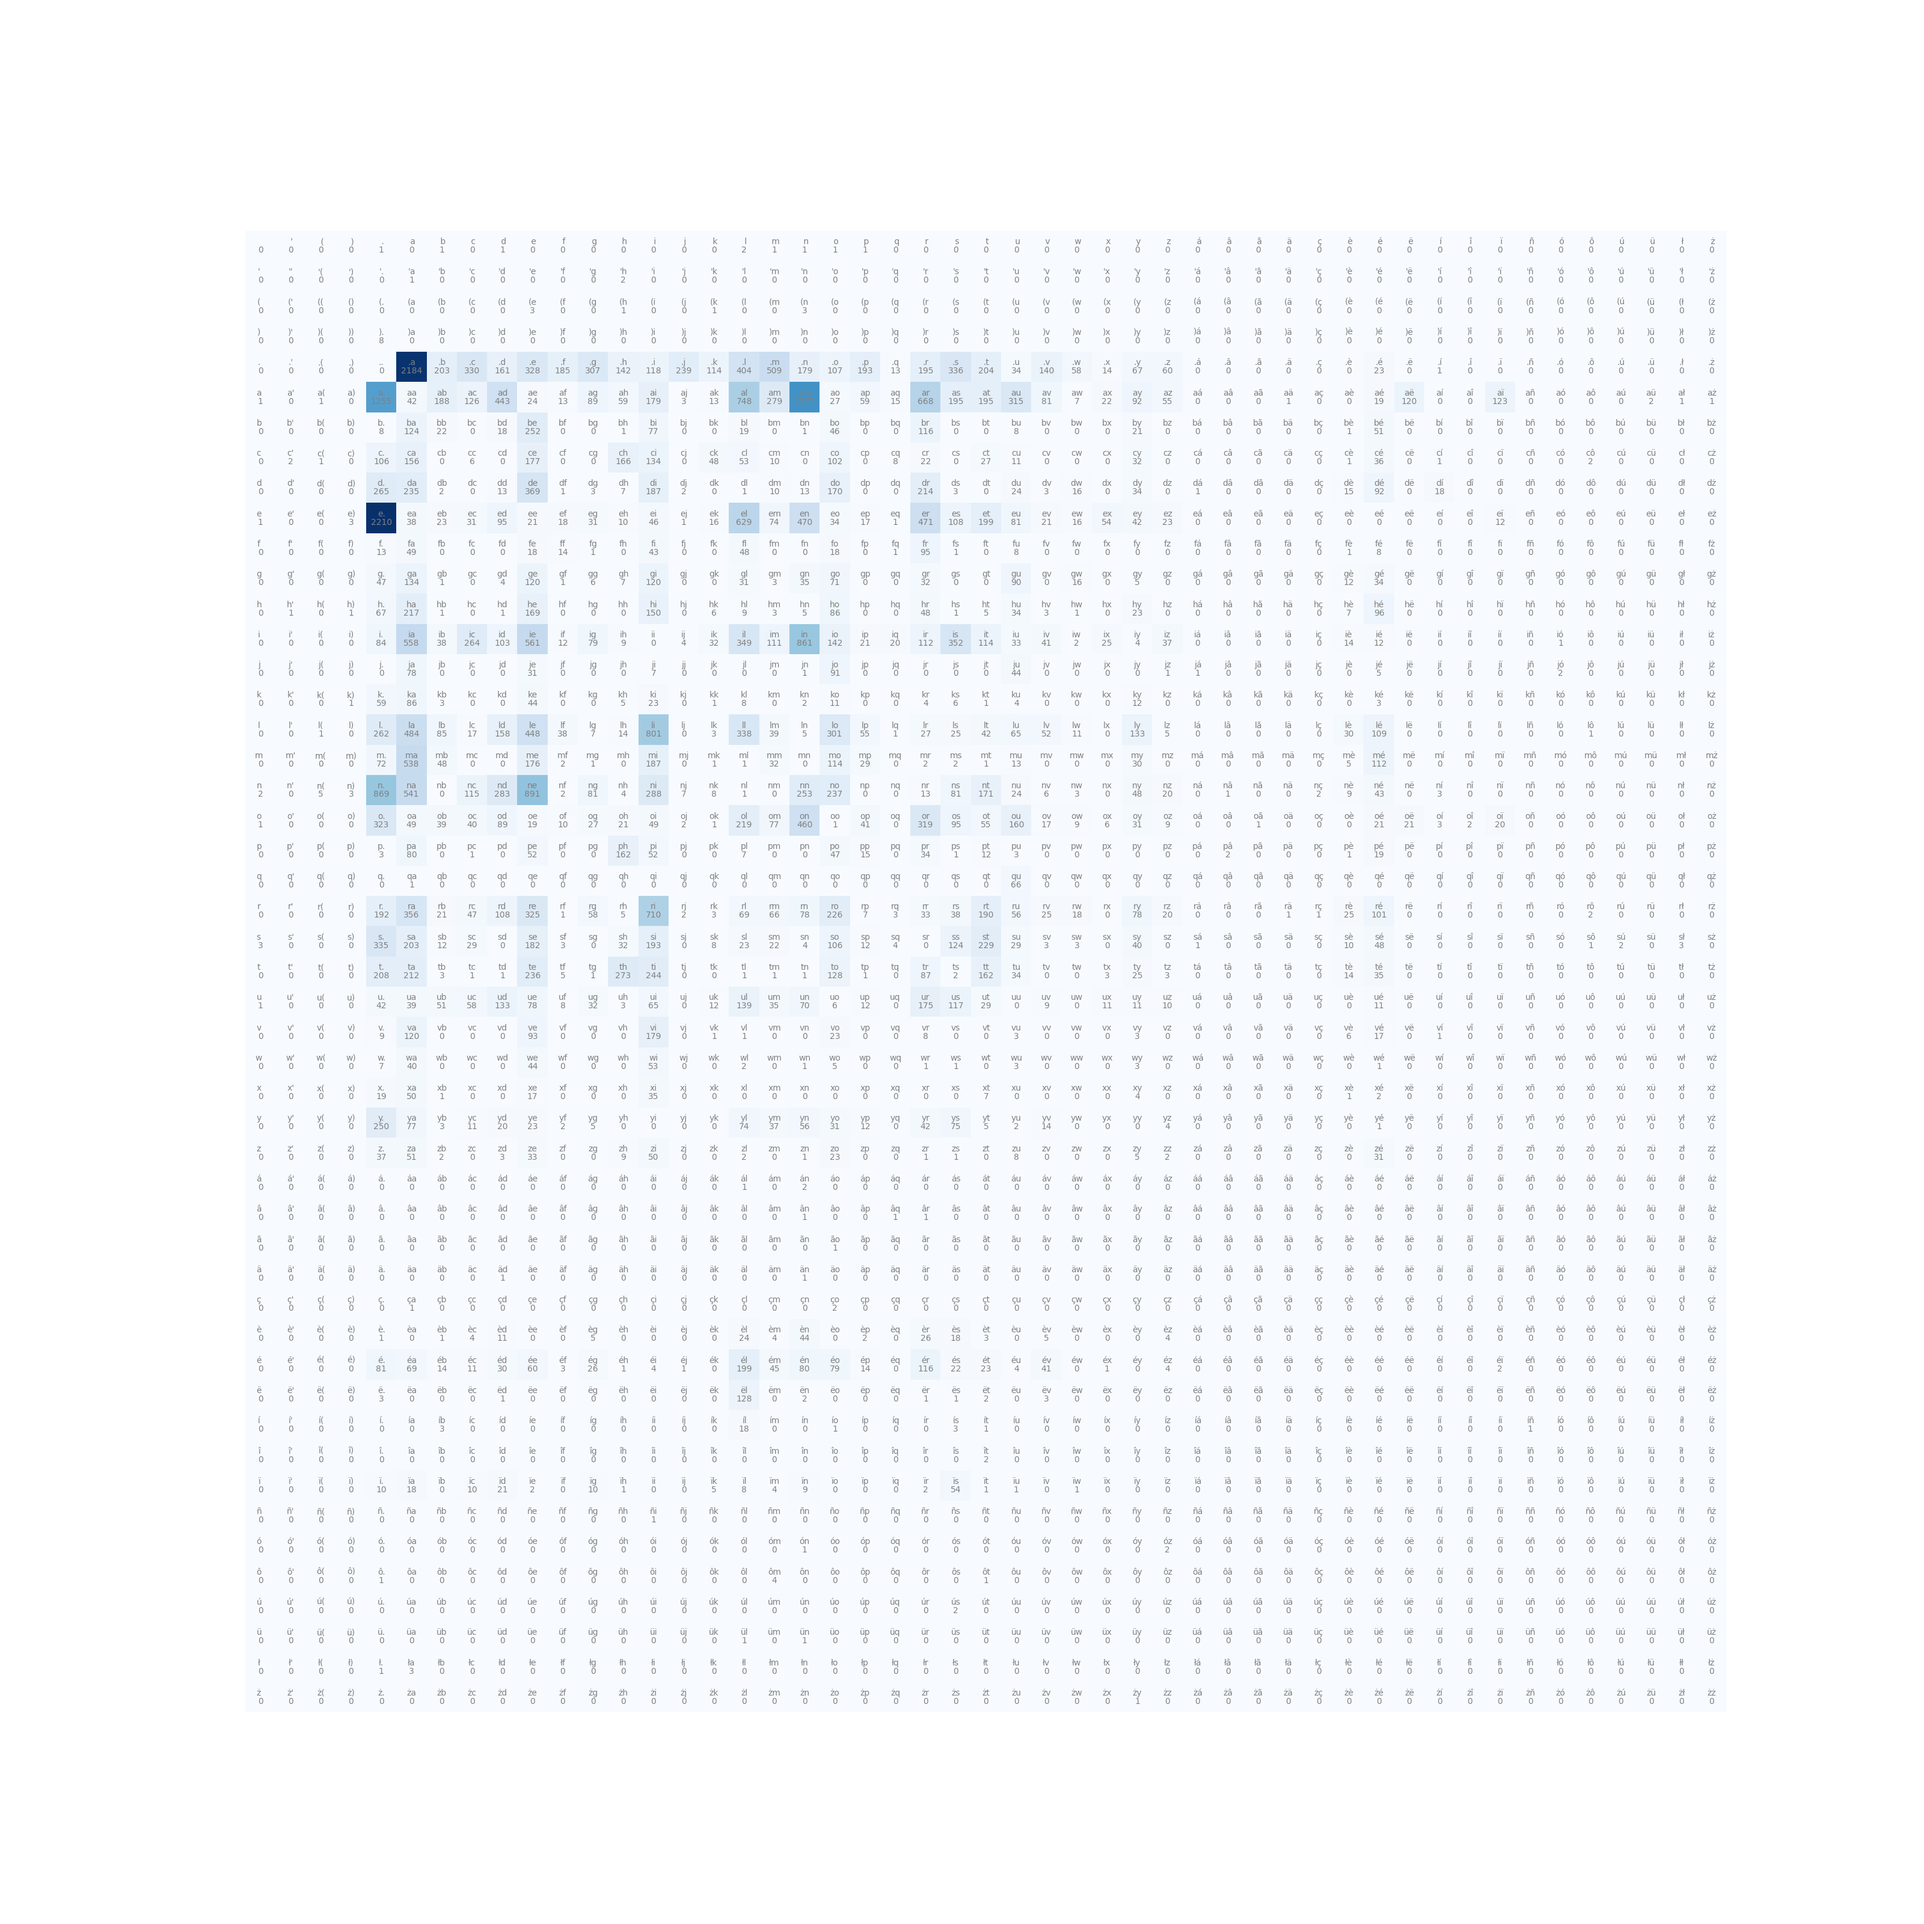
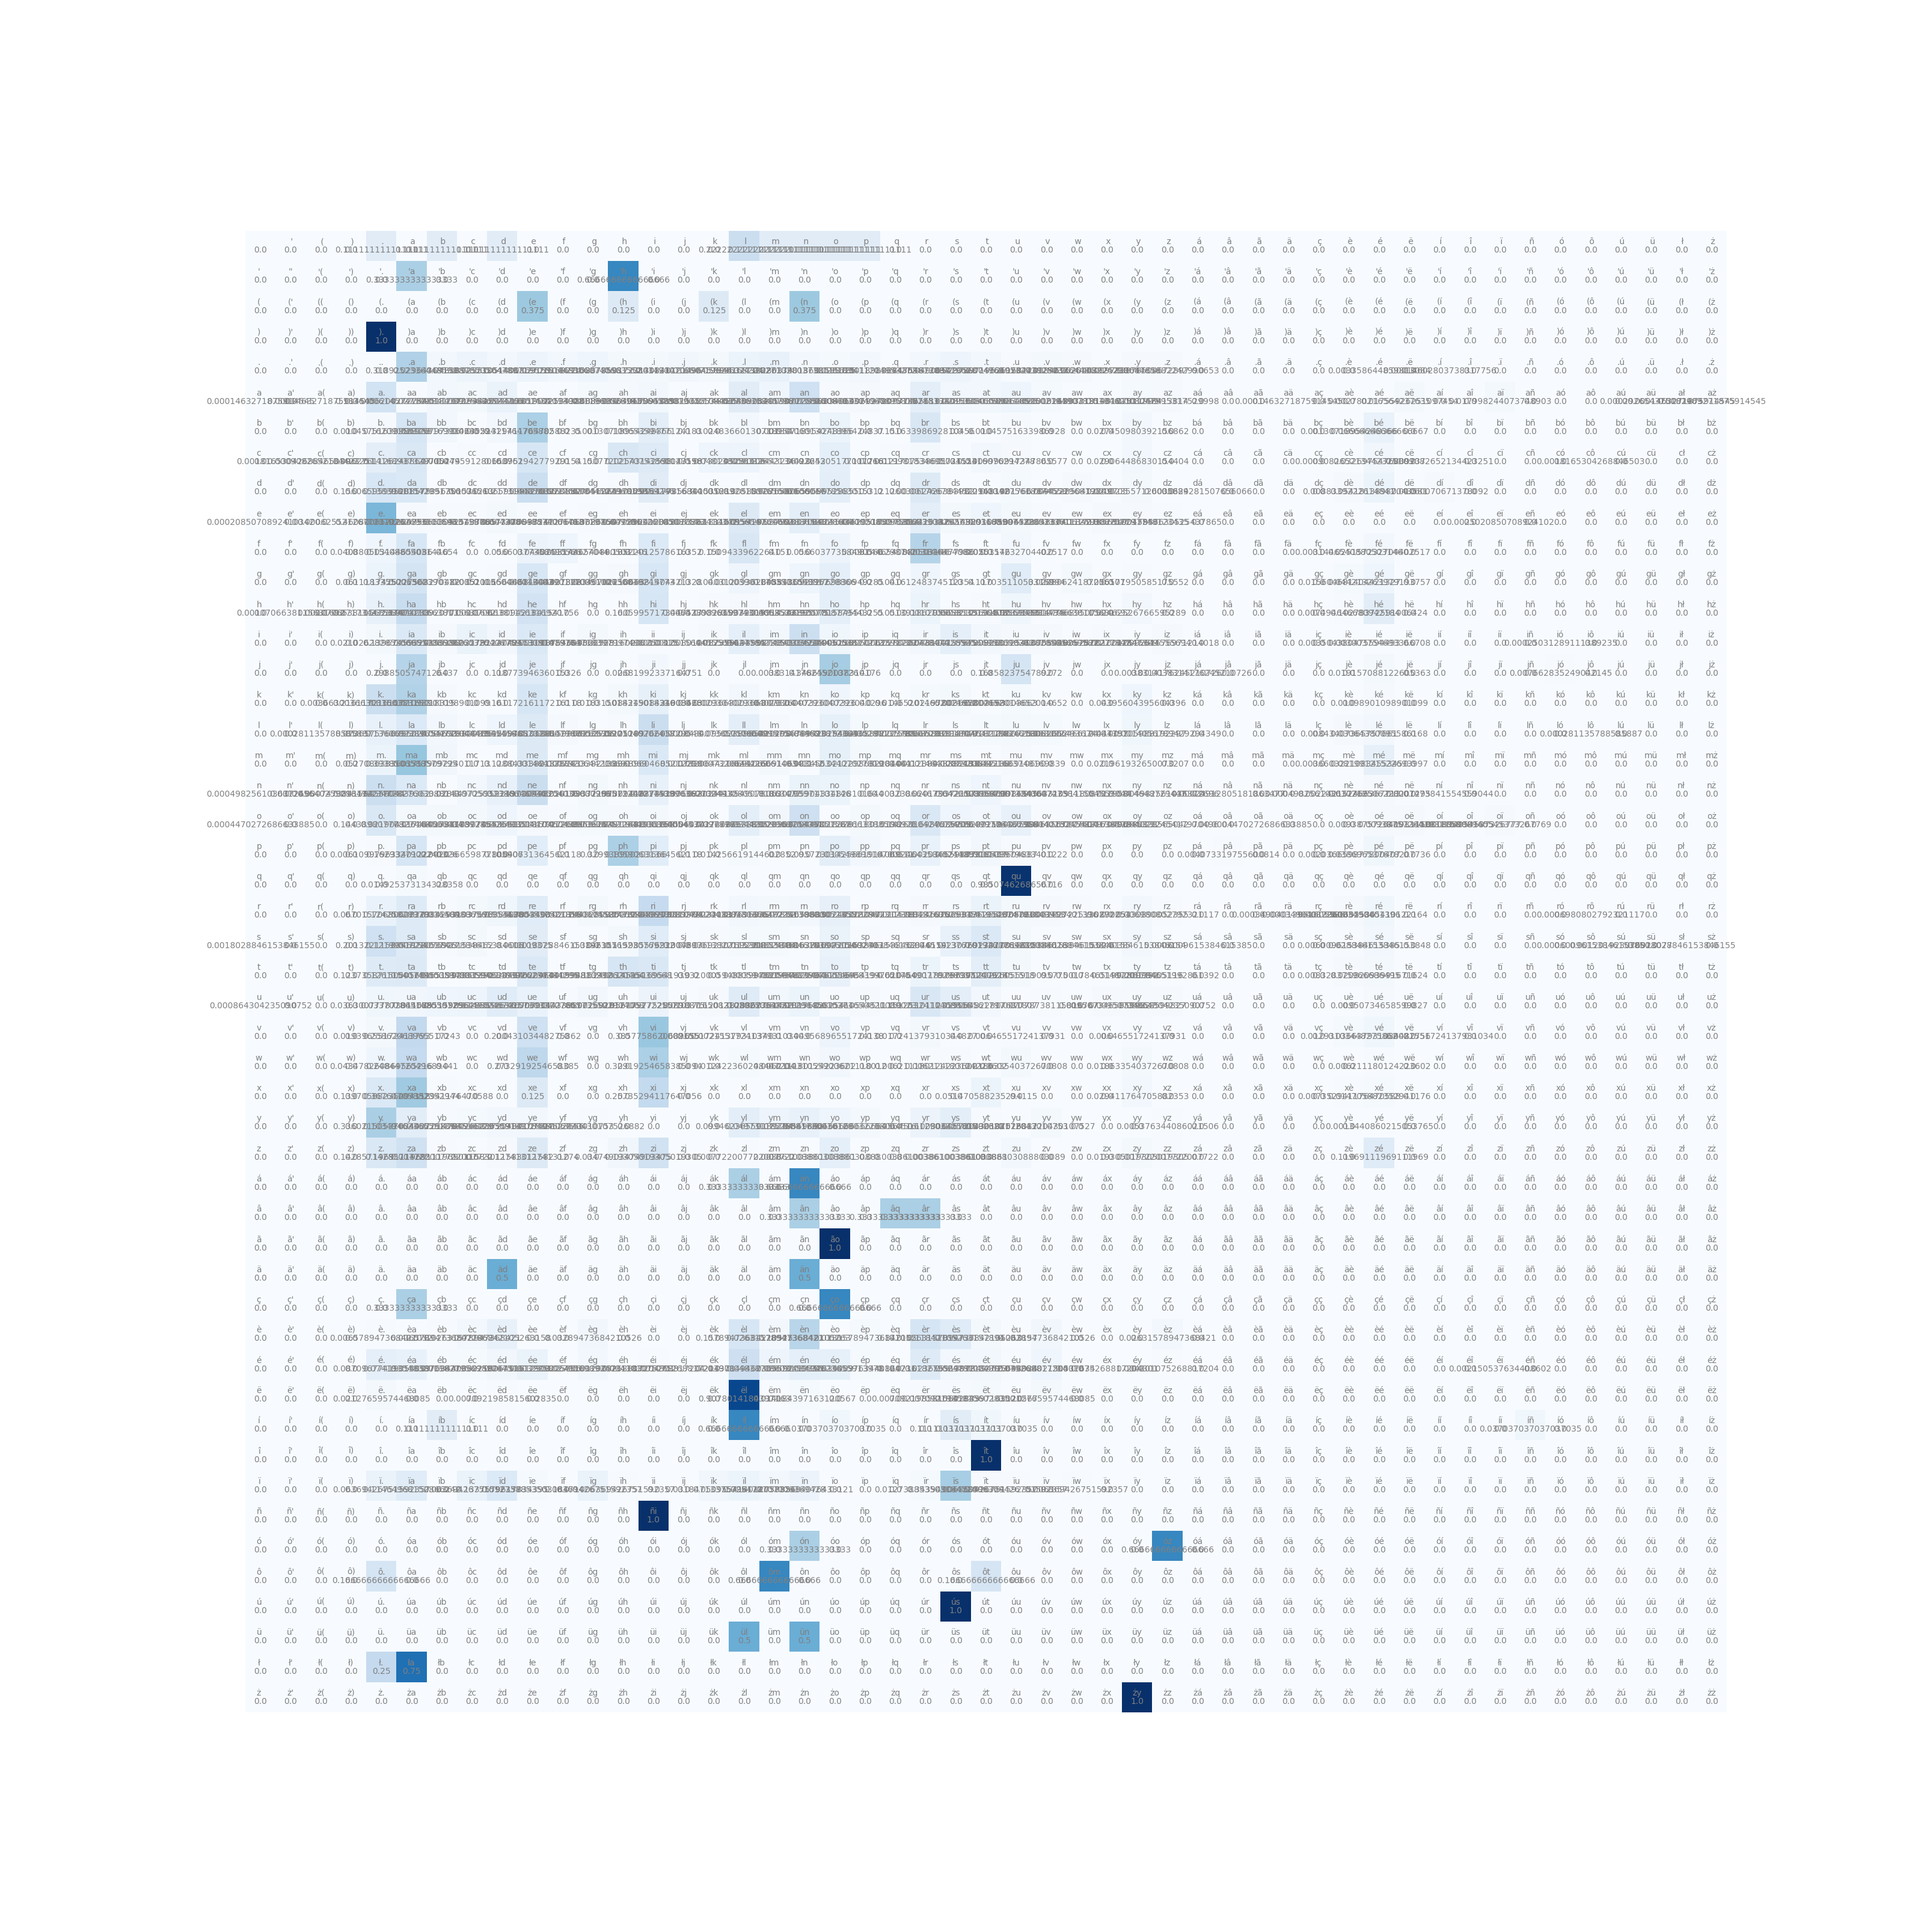
up

diff --git a/2/bigram.py b/2/bigram.py
@@ -61,15 +61,45 @@ with open(input) as f:
             #last_char=c
         #count[char_to_i[last_char],char_to_i['.']] += 1
 
-import matplotlib.pyplot as plt
-#%matplotlib inline
-
-plt.figure(figsize=(32,32))
-plt.imshow(count, cmap='Blues')
+sum=np.zeros((len_chars),dtype=int)
 for i in range(len_chars):
     for j in range(len_chars):
-        chstr = i_to_char[i] + i_to_char[j]
-        plt.text(j, i, chstr, ha="center", va="bottom", color='gray')
-        plt.text(j, i, count[i, j], ha="center", va="top", color='gray')
-plt.axis('off');
-plt.savefig('image.png')
+        sum[i]+=count[i][j]
+
+p=np.zeros((len_chars,len_chars),dtype=float)
+for i in range(len_chars):
+    for j in range(len_chars):
+        p[i][j]=count[i][j]/sum[i]
+
+#print(p[char_to_i['.']])
+#exit()
+# ss=0.0
+# for j in range(len_chars):
+#     ss+=p[4][j]
+# print(ss)
+# import matplotlib.pyplot as plt
+# #%matplotlib inline
+
+# plt.figure(figsize=(32,32))
+# plt.imshow(p, cmap='Blues')
+# for i in range(len_chars):
+#     for j in range(len_chars):
+#         chstr = i_to_char[i] + i_to_char[j]
+#         plt.text(j, i, chstr, ha="center", va="bottom", color='gray')
+#         plt.text(j, i, p[i, j], ha="center", va="top", color='gray')
+# plt.axis('off');
+# plt.savefig('image.png')
+
+
+next_c='.'
+name=''
+while(True):
+    my_generator = np.random.default_rng()
+    next_i=my_generator.multinomial(1, p[char_to_i[next_c]])
+    next_c=i_to_char[next_i[0]]
+    name+=next_c
+    print(next_c,next_i)
+    if(next_c == '.'):
+        break
+print(name)
+    
